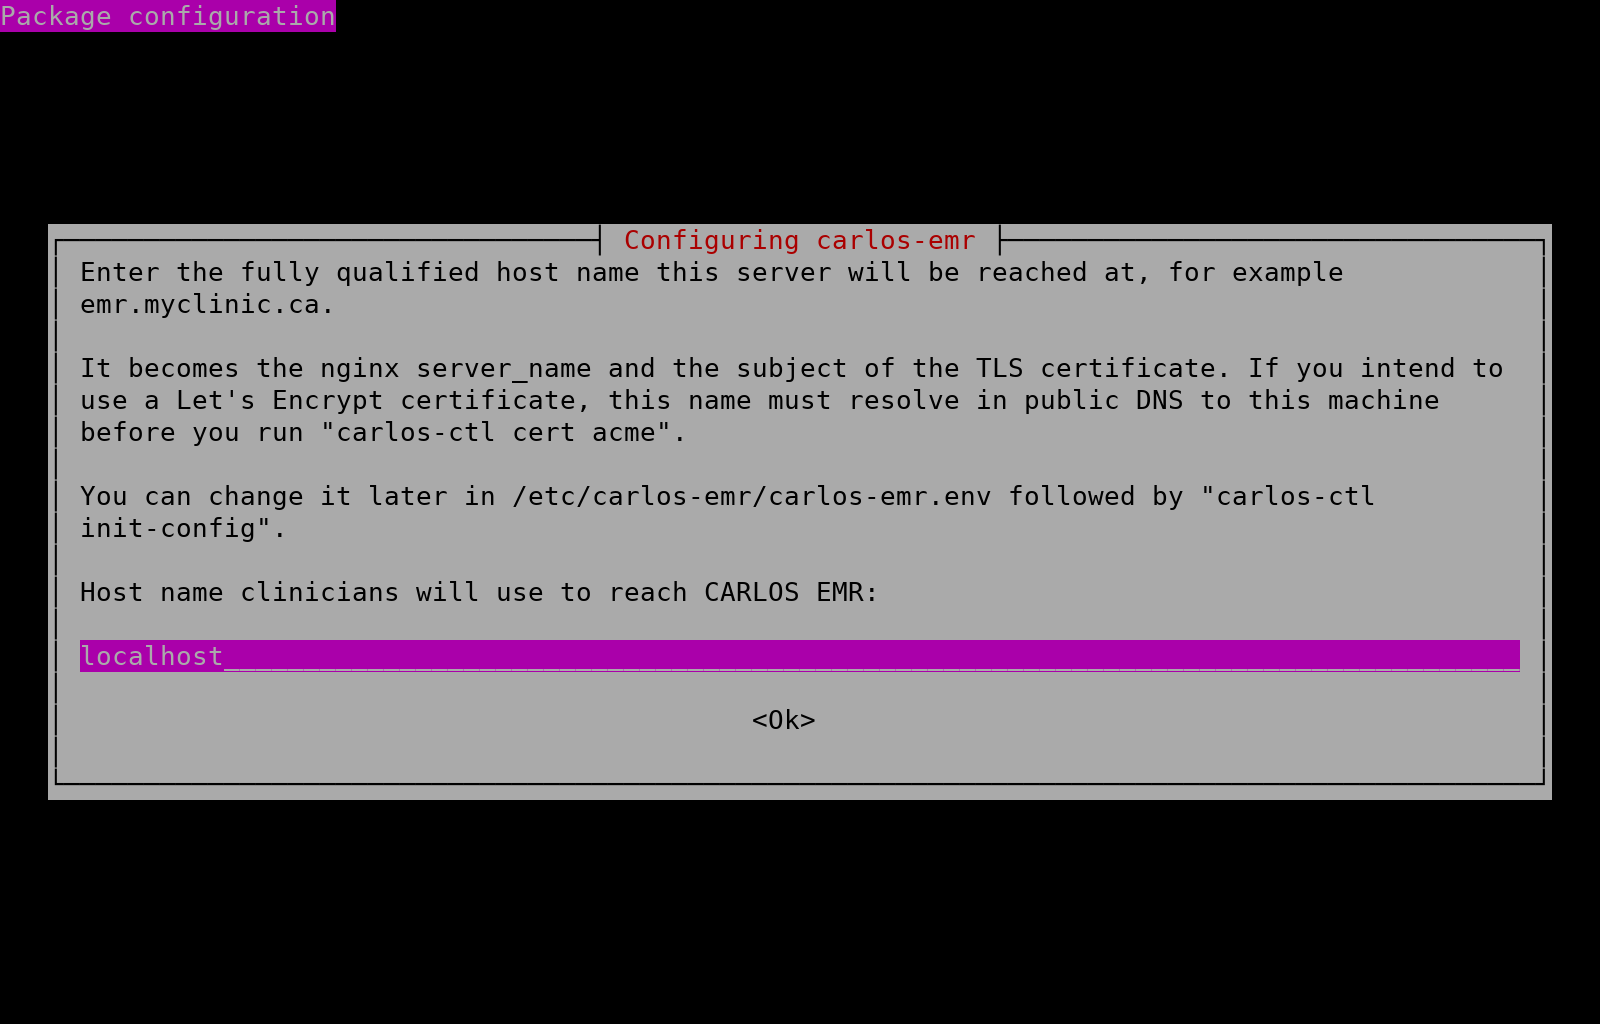
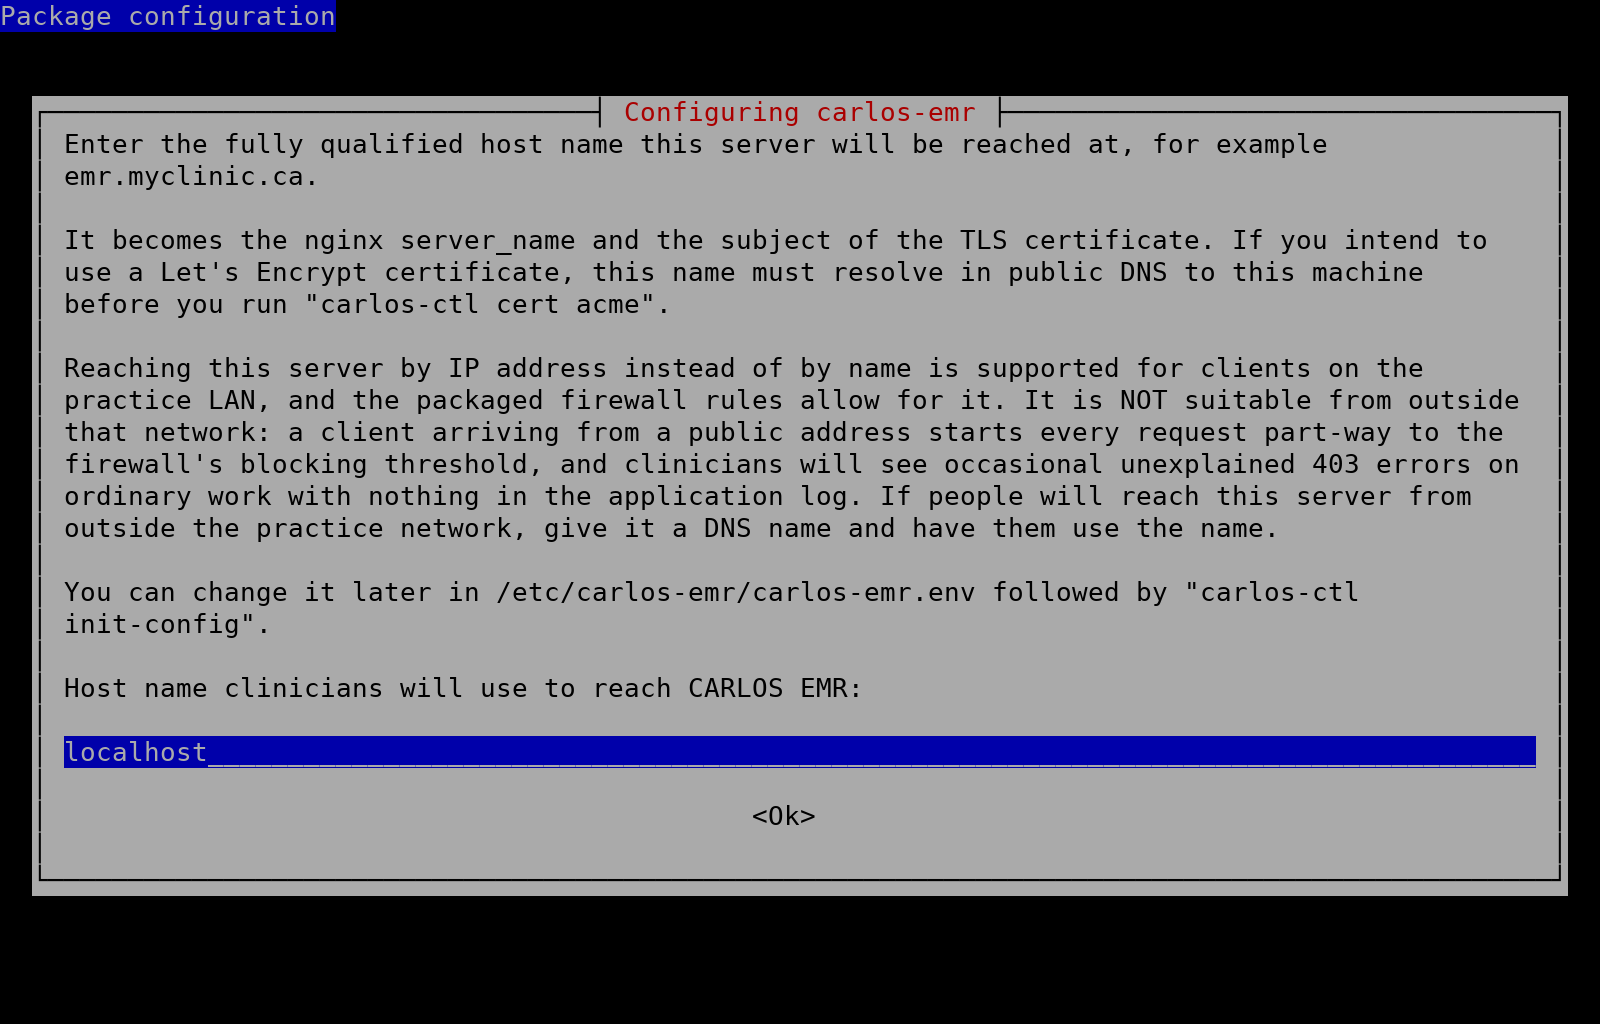
fix(waf): stop CRS 920350 spending the anomaly budget on LAN clients
CRS 920350 ("Host header is a numeric IP address", PL1, WARNING) matches
every request from a client that reaches CARLOS at an IP address. That is
the normal deployment for this product, not an edge case: clinics run the
EMR on their own LAN and most reach it at its address on the practice
subnet. For those sites the rule spends 3 of the 5-point inbound anomaly
threshold on every single request, before inspection has looked at
anything.

The cost is the 2 points of headroom left behind: one further
WARNING-or-worse match anywhere in the application then blocks a clinical
workflow with a bare 403 and no application log line. That is precisely
how the eChart left-navbar refresh broke in the previous commit's bug
(920350's 3 plus 931100's 5 = 8), and the next single-signature false
positive on an IP-reached install is one rule away for the same arithmetic
reason.

Add packaged rule 1090 removing 920350 for clients whose SOURCE address is
private, loopback or link-local. REMOTE_ADDR here is the peer nginx
accepted the connection from, not a header, so an off-network client
cannot claim the exemption — a public source address still scores 920350
in full, which is the case the rule exists for. The outer chain repeats
920350's own ^[\d.:]+$ Host test so a named-host request never reaches the
comparison.

An internet-exposed install used by public IP therefore keeps the standing
3 points and the 2-point headroom, and its users will keep seeing
[…]

diff --git a/docs/install-deb.md b/docs/install-deb.md
@@ -96,6 +96,18 @@ does not.
 
 ![Host name question](images/install/01-server-name.png)
 
+> **Reaching the server by IP address.** Clients on the practice LAN may use the
+> server's IP instead of a name — that is the common clinic setup and the
+> packaged WAF rules account for it (rule 1090 exempts private-range clients
+> from CRS 920350, which would otherwise spend 3 of the 5-point anomaly budget
+> on every request). Clients arriving from a **public** address get no such
+> exemption, by design: they start each request part-way to the blocking
+> threshold, so users see occasional unexplained `403` errors on ordinary
+> clinical work with nothing in the application log. **If anyone will reach this
+> server from outside the practice network, give it a DNS name and have them use
+> the name** — which is also what a real TLS certificate is issued for. See
+> "The web application firewall" in `README.Debian` for the full reasoning.
+
 **2. Listen address** — `0.0.0.0` serves every interface (the usual clinic
 setup); `127.0.0.1` keeps it local while staging or behind a separate proxy.
 The application server and database always listen on loopback only.
